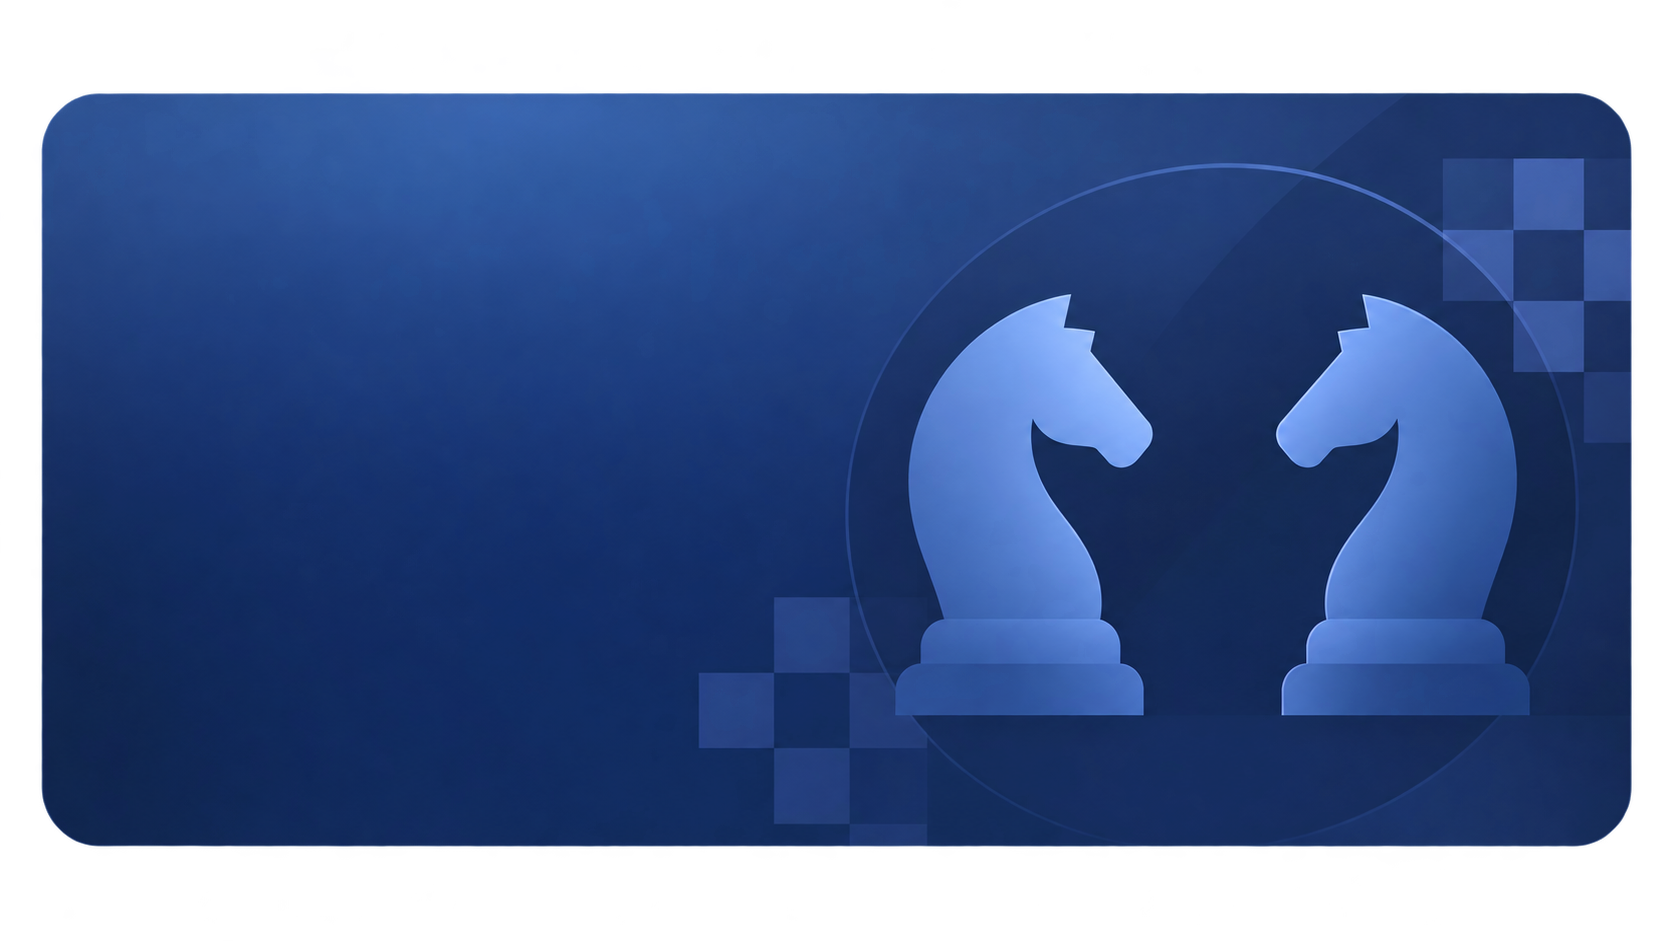
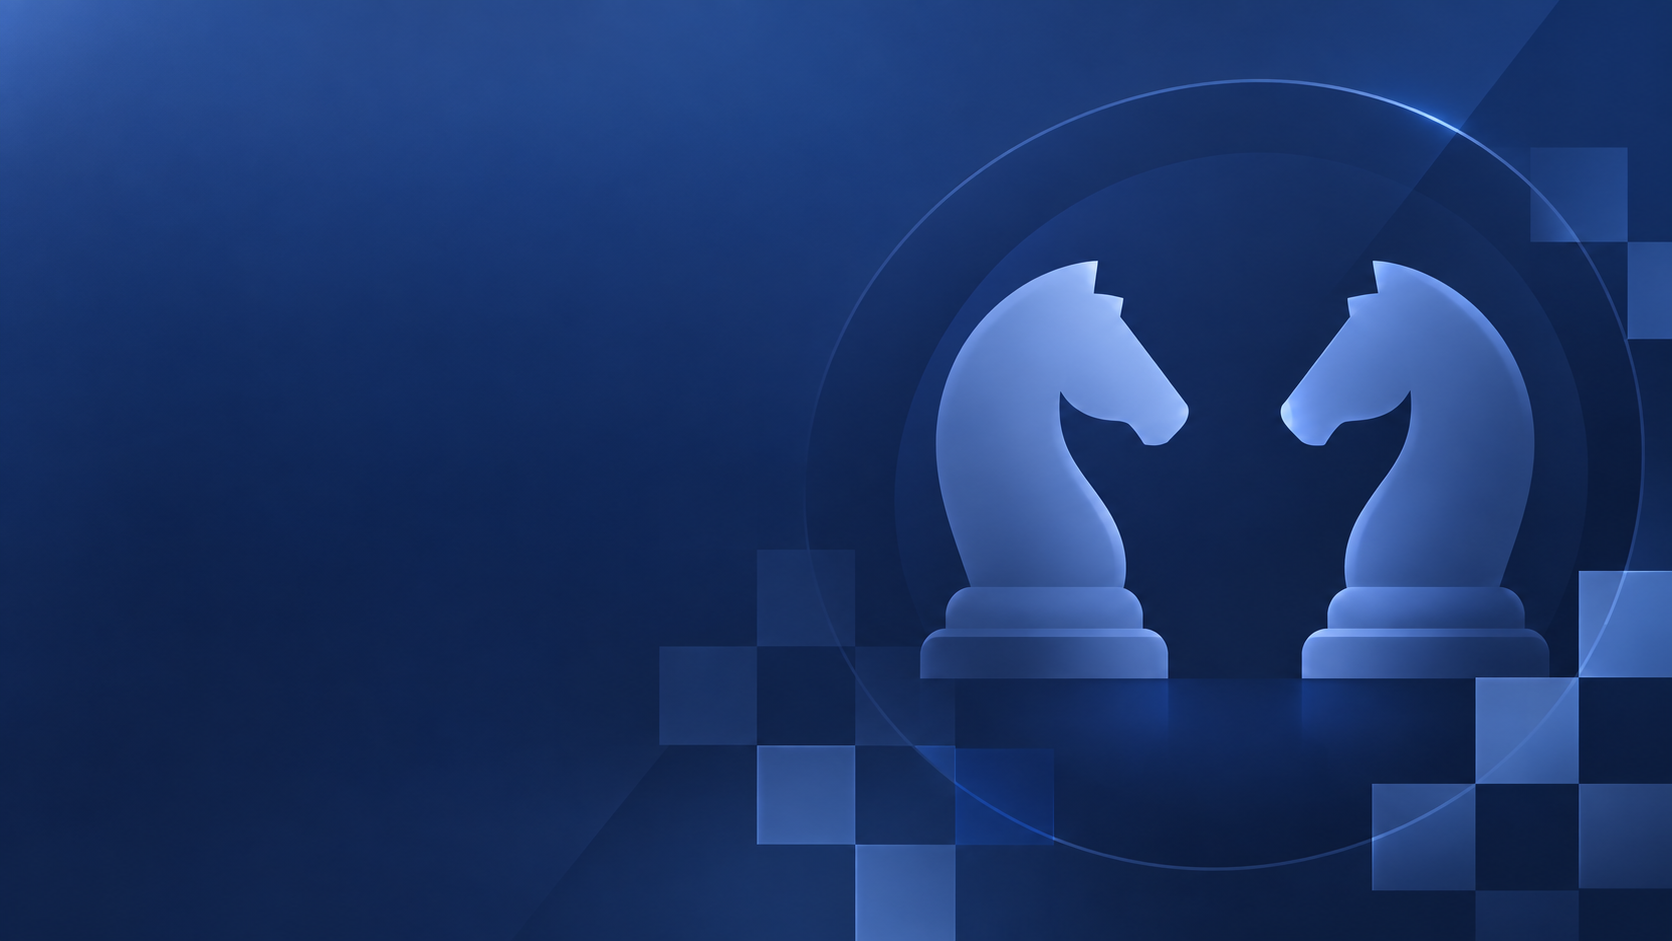
feat(application): add new cards look and feel

diff --git a/src/main/resources/css/lastmove.css b/src/main/resources/css/lastmove.css
@@ -1239,6 +1239,16 @@
 .home-knightshade-banner .knightshade-description,
 .home-knightshade-banner .knightshade-arena-activity { -fx-text-fill: #b5c2d2; }
 
+/* Modern application look: feature artwork is provided by the v4 card set. */
+.look-modern .home-analysis-card, .night-mode.look-modern .home-analysis-card { -fx-background-image: url("/images/card-background-v4-analysis.png"); }
+.look-modern .home-studies-card, .night-mode.look-modern .home-studies-card { -fx-background-image: url("/images/card-background-v4-studies.png"); }
+.look-modern .home-tactics-card, .night-mode.look-modern .home-tactics-card { -fx-background-image: url("/images/card-background-v4-tactics.png"); }
+.look-modern .home-computer-card, .night-mode.look-modern .home-computer-card { -fx-background-image: url("/images/card-background-v4-play.png"); }
+.look-modern .home-games-card, .night-mode.look-modern .home-games-card { -fx-background-image: url("/images/card-background-v4-games.png"); }
+.look-modern .home-position-card, .night-mode.look-modern .home-position-card { -fx-background-image: url("/images/card-background-v4-position-editor.png"); }
+.look-modern .home-storm-card, .night-mode.look-modern .home-storm-card { -fx-background-image: url("/images/card-background-v4-training-storm.png"); }
+.look-modern .home-knightshade-banner, .night-mode.look-modern .home-knightshade-banner { -fx-background-image: url("/images/card-background-v4-lichess-bot.png"); }
+
 .knightshade-kicker {
     -fx-font-size: 12px;
     -fx-font-weight: 800;
@@ -5008,3 +5018,17 @@
 .night-mode.blood-pressure-window .blood-pressure-metric-caption { -fx-text-fill: #e7c77e; }
 .night-mode.blood-pressure-window .blood-pressure-metric-current,
 .night-mode.blood-pressure-window .blood-pressure-metric-summary-value { -fx-text-fill: #f1f3f5; }
+
+/* Keep the selected v4 card artwork above the later legacy per-card rules.
+   These selectors cover both light and dark roots because look-modern is
+   applied independently of night-mode. */
+.look-modern .home-action-grid > .home-analysis-card { -fx-background-image: url("/images/card-background-v4-analysis.png"); }
+.look-modern .home-action-grid > .home-studies-card { -fx-background-image: url("/images/card-background-v4-studies.png"); }
+.look-modern .home-action-grid > .home-tactics-card { -fx-background-image: url("/images/card-background-v4-tactics.png"); }
+.look-modern .home-action-grid > .home-play-card { -fx-background-image: url("/images/card-background-v4-play.png"); }
+.look-modern .home-action-grid > .home-games-card { -fx-background-image: url("/images/card-background-v4-games.png"); }
+.look-modern .home-action-grid > .home-position-card { -fx-background-image: url("/images/card-background-v4-position-editor.png"); }
+.look-modern .home-action-grid > .home-vs-computer-card { -fx-background-image: url("/images/card-background-v4-computer-vs-computer.png"); }
+.look-modern .home-action-grid > .home-training-card { -fx-background-image: url("/images/card-background-v4-training-memory.png"); }
+.look-modern .home-action-grid > .home-storm-card { -fx-background-image: url("/images/card-background-v4-training-storm.png"); }
+.look-modern .home-action-grid > .home-knightshade-banner { -fx-background-image: url("/images/card-background-v4-lichess-bot.png"); }

diff --git a/src/main/java/com/escontrela/lastmove/ui/controller/SetupScreenController.java b/src/main/java/com/escontrela/lastmove/ui/controller/SetupScreenController.java
@@ -80,6 +80,7 @@ public class SetupScreenController implements UiScreenController {
     @FXML private FlowPane settingsFilters;
     @FXML private FlowPane boardAppearanceChoices;
     @FXML private FlowPane chessPieceSetChoices;
+    @FXML private FlowPane applicationLookChoices;
     @FXML
     private CheckBox nightModeCheckBox;
     @FXML
@@ -182,6 +183,8 @@ public class SetupScreenController implements UiScreenController {
             };
 
     private boolean savedNightMode;
+    private ApplicationThemeService.Look savedLook;
+    private ApplicationThemeService.Look pendingLook;
     private boolean savedSplashScreen;
     private boolean savedBoardVisualEffects;
     private BoardAppearancePreset savedBoardAppearancePreset;
@@ -198,6 +201,7 @@ public class SetupScreenController implements UiScreenController {
     private boolean loadingArenaToken;
     private final Map<BoardAppearancePreset, Button> boardChoiceButtons = new EnumMap<>(BoardAppearancePreset.class);
     private final Map<ChessPieceSet, Button> pieceSetChoiceButtons = new EnumMap<>(ChessPieceSet.class);
+    private final Map<ApplicationThemeService.Look, Button> lookChoiceButtons = new EnumMap<>(ApplicationThemeService.Look.class);
 
     public SetupScreenController(
             @Lazy UiFlowManager uiFlowManager,
@@ -258,6 +262,22 @@ public class SetupScreenController implements UiScreenController {
         chessPieceSetCombo.valueProperty().addListener((ignored, oldValue, newValue) ->
                 { refreshAppearanceChoices(); updateApplyButtonVisibility(); });
         buildAppearanceChoices();
+        for (ApplicationThemeService.Look look : ApplicationThemeService.Look.values()) {
+            Button choice = new Button();
+            choice.getStyleClass().add("appearance-choice-card");
+            choice.setAccessibleText("Select " + look.name().toLowerCase() + " application look");
+            String image = look == ApplicationThemeService.Look.MODERN
+                    ? "/images/card-background-v4-play.png" : "/images/card-background-light.png";
+            ImageView card = new ImageView(new javafx.scene.image.Image(getClass().getResource(image).toExternalForm()));
+            card.setFitWidth(180); card.setFitHeight(102); card.setPreserveRatio(false);
+            Label label = new Label(look == ApplicationThemeService.Look.MODERN ? "Modern · v4 cards" : "Classic");
+            label.getStyleClass().add("appearance-choice-name");
+            VBox preview = new VBox(8, card, label); preview.getStyleClass().add("appearance-choice-content");
+            choice.setGraphic(preview);
+            choice.setOnAction(event -> { pendingLook = look; refreshLookChoices(); updateApplyButtonVisibility(); });
+            lookChoiceButtons.put(look, choice);
+        }
+        applicationLookChoices.getChildren().setAll(lookChoiceButtons.values());
         sunfishExecutablePathField.textProperty().addListener((ignored, oldValue, newValue) -> {
             clearSunfishValidation();
             updateApplyButtonVisibility();
@@ -435,6 +455,10 @@ public class SetupScreenController implements UiScreenController {
         pieceSetChoiceButtons.forEach((pieceSet, choice) -> updateChoiceSelection(choice, pieceSet == selectedSet));
     }
 
+    private void refreshLookChoices() {
+        lookChoiceButtons.forEach((look, button) -> updateChoiceSelection(button, look == pendingLook));
+    }
+
     private void updateChoiceSelection(Button choice, boolean selected) {
         choice.getStyleClass().remove("appearance-choice-card-selected");
         if (selected) choice.getStyleClass().add("appearance-choice-card-selected");
@@ -494,6 +518,9 @@ public class SetupScreenController implements UiScreenController {
     public void onShow() {
         refreshFilters();
         savedNightMode = themeService.currentThemeMode().isNightMode();
+        savedLook = themeService.currentLook();
+        pendingLook = savedLook;
+        refreshLookChoices();
         savedSplashScreen = startupPreferencesService.isSplashScreenEnabled();
         savedBoardVisualEffects = boardAppearancePreferencesService.isBoardVisualEffectsEnabled();
         savedBoardAppearancePreset = boardAppearancePreferencesService.getBoardAppearancePreset();
@@ -577,11 +604,13 @@ public class SetupScreenController implements UiScreenController {
                 Optional.ofNullable(savedAnalysisEngineDefaultId));
         applyArenaSettings();
         themeService.setNightMode(nightModeCheckBox.isSelected());
+        themeService.setLook(pendingLook);
         startupPreferencesService.setSplashScreenEnabled(showSplashCheckBox.isSelected());
         boardAppearancePreferencesService.setBoardVisualEffectsEnabled(boardVisualEffectsCheckBox.isSelected());
         boardAppearancePreferencesService.setBoardAppearancePreset(boardAppearancePresetCombo.getValue());
         boardAppearancePreferencesService.setChessPieceSet(chessPieceSetCombo.getValue());
         savedNightMode = nightModeCheckBox.isSelected();
+        savedLook = pendingLook;
         savedSplashScreen = showSplashCheckBox.isSelected();
         savedBoardVisualEffects = boardVisualEffectsCheckBox.isSelected();
         savedBoardAppearancePreset = boardAppearancePresetCombo.getValue();
@@ -702,6 +731,7 @@ public class SetupScreenController implements UiScreenController {
 
     private boolean hasUnsavedChanges() {
         return nightModeCheckBox.isSelected() != savedNightMode
+                || pendingLook != savedLook
                 || showSplashCheckBox.isSelected() != savedSplashScreen
                 || boardVisualEffectsCheckBox.isSelected() != savedBoardVisualEffects
                 || boardAppearancePresetCombo.getValue() != savedBoardAppearancePreset

diff --git a/src/main/java/com/escontrela/lastmove/ui/service/ApplicationThemeService.java b/src/main/java/com/escontrela/lastmove/ui/service/ApplicationThemeService.java
@@ -14,6 +14,8 @@ public class ApplicationThemeService {
 
     private static final String NIGHT_MODE_STYLE_CLASS = "night-mode";
     private static final String NIGHT_MODE_PREFERENCE = "night-mode";
+    private static final String LOOK_PREFERENCE = "application-look";
+    public enum Look { CLASSIC, MODERN }
 
     private final Preferences preferences = Preferences.userNodeForPackage(ApplicationThemeService.class);
     private final Set<Parent> registeredRoots =
@@ -25,6 +27,7 @@ public class ApplicationThemeService {
         }
         registeredRoots.add(root);
         applyTheme(root, currentThemeMode());
+        applyLook(root, currentLook());
     }
 
     public ApplicationThemeMode currentThemeMode() {
@@ -40,7 +43,18 @@ public class ApplicationThemeService {
 
     public void refreshRegisteredRoots() {
         ApplicationThemeMode themeMode = currentThemeMode();
-        registeredRoots.forEach(root -> applyTheme(root, themeMode));
+        Look look = currentLook();
+        registeredRoots.forEach(root -> { applyTheme(root, themeMode); applyLook(root, look); });
+    }
+
+    public Look currentLook() {
+        try { return Look.valueOf(preferences.get(LOOK_PREFERENCE, Look.CLASSIC.name())); }
+        catch (IllegalArgumentException ignored) { return Look.CLASSIC; }
+    }
+
+    public void setLook(Look look) {
+        preferences.put(LOOK_PREFERENCE, java.util.Objects.requireNonNull(look).name());
+        refreshRegisteredRoots();
     }
 
     private void applyTheme(Parent root, ApplicationThemeMode mode) {
@@ -48,5 +62,10 @@ public class ApplicationThemeService {
         if (mode.isNightMode()) {
             root.getStyleClass().add(NIGHT_MODE_STYLE_CLASS);
         }
+    }
+
+    private void applyLook(Parent root, Look look) {
+        root.getStyleClass().removeAll("look-classic", "look-modern");
+        root.getStyleClass().add(look == Look.MODERN ? "look-modern" : "look-classic");
     }
 }

diff --git a/src/main/java/com/escontrela/lastmove/ui/service/SplashScreenService.java b/src/main/java/com/escontrela/lastmove/ui/service/SplashScreenService.java
@@ -38,8 +38,10 @@ public class SplashScreenService {
   private static final double SPLASH_HEIGHT = 400;
   private static final double SPLASH_CORNER_RADIUS = 26;
 
-  private static final String LIGHT_BACKGROUND_RESOURCE = "/images/splash-light-v4.png";
-  private static final String DARK_BACKGROUND_RESOURCE = "/images/splash-dark-v4.png";
+  private static final String CLASSIC_LIGHT_BACKGROUND_RESOURCE = "/images/splash-light-v4.png";
+  private static final String CLASSIC_DARK_BACKGROUND_RESOURCE = "/images/splash-dark-v4.png";
+  private static final String MODERN_LIGHT_BACKGROUND_RESOURCE = "/images/splash-light-v5.png";
+  private static final String MODERN_DARK_BACKGROUND_RESOURCE = "/images/splash-dark-v5.png";
   private static final String LOGO_RESOURCE = "/images/logo/modern-logo-1024.png";
 
   /*
@@ -507,10 +509,11 @@ public class SplashScreenService {
 
   private Image loadBackground() {
 
-    String resource =
-        themeService.currentThemeMode() == ApplicationThemeMode.NIGHT
-            ? DARK_BACKGROUND_RESOURCE
-            : LIGHT_BACKGROUND_RESOURCE;
+    boolean night = themeService.currentThemeMode() == ApplicationThemeMode.NIGHT;
+    boolean modern = themeService.currentLook() == ApplicationThemeService.Look.MODERN;
+    String resource = modern
+        ? (night ? MODERN_DARK_BACKGROUND_RESOURCE : MODERN_LIGHT_BACKGROUND_RESOURCE)
+        : (night ? CLASSIC_DARK_BACKGROUND_RESOURCE : CLASSIC_LIGHT_BACKGROUND_RESOURCE);
 
     return new Image(
         Objects.requireNonNull(

diff --git a/src/test/java/com/escontrela/lastmove/application/service/PositionAnalysisServiceTest.java b/src/test/java/com/escontrela/lastmove/application/service/PositionAnalysisServiceTest.java
@@ -75,25 +75,6 @@ class PositionAnalysisServiceTest {
   }
 
   @Test
-  void discardsASupersededAnalysisResult() {
-    FakeEngineProvider knightshade = new FakeEngineProvider("knightshade");
-    CompletableFuture<EngineAnalysisResult> first = new CompletableFuture<>();
-    CompletableFuture<EngineAnalysisResult> second = new CompletableFuture<>();
-    knightshade.enqueue(first);
-    knightshade.enqueue(second);
-    PositionAnalysisService service = service(List.of(knightshade));
-
-    var firstStage = service.analyze(position(PieceColor.WHITE), "knightshade");
-    var secondStage = service.analyze(position(PieceColor.WHITE), "knightshade");
-
-    first.complete(EngineAnalysisResult.moveOnly(MOVE));
-    second.complete(EngineAnalysisResult.moveOnly(MOVE));
-
-    assertTrue(firstStage.toCompletableFuture().join().isEmpty());
-    assertTrue(secondStage.toCompletableFuture().join().isPresent());
-  }
-
-  @Test
   void closesThePreviousEngineWhenSwitchingEngine() {
     FakeEngineProvider knightshade = new FakeEngineProvider("knightshade");
     FakeEngineProvider sunfish = new FakeEngineProvider("sunfish");
